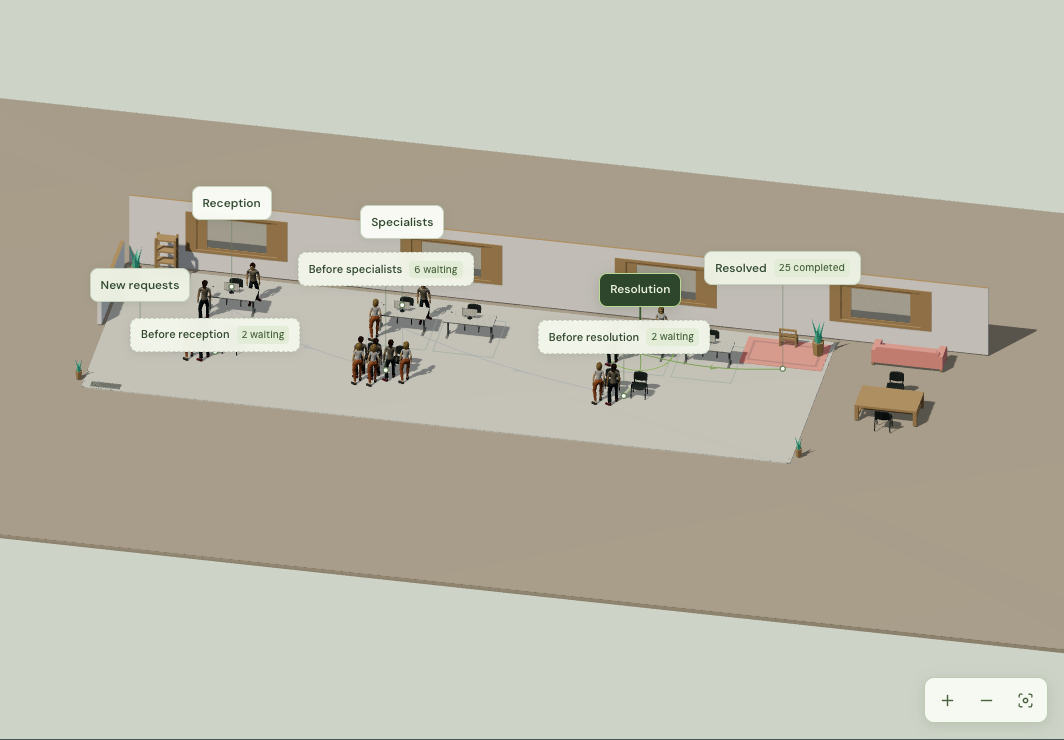
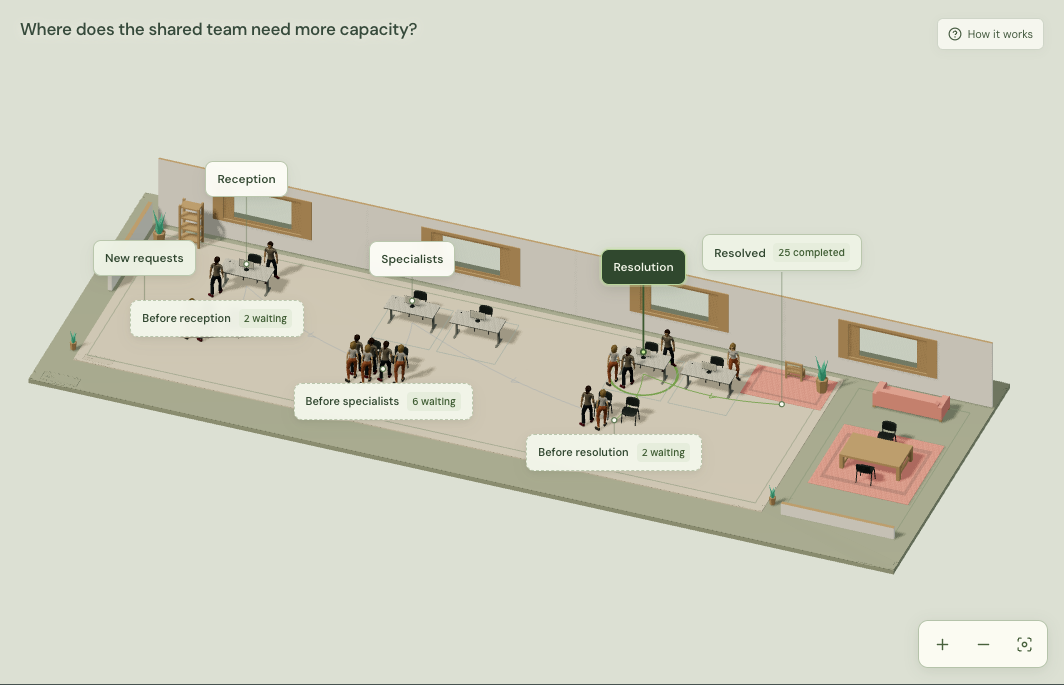
Refresh Loopset release artwork, guides and the demonstrated capacity trade-off

diff --git a/src/features/EditFields.tsx b/src/features/EditFields.tsx
@@ -38,6 +38,7 @@ export function NumberField({ label, value, onChange, contextKey, min, max, step
   const parsed = /^[+-]?(?:\d+(?:\.\d*)?|\.\d+)(?:[eE][+-]?\d+)?$/.test(draft.trim()) ? Number(draft) : NaN;
   const dirty = draft !== String(value);
   const compactReading = !dirty && format(value) !== draft;
+  const accessibleValue = dirty ? parsed : value;
   const validStep = step === 'any' || !Number.isFinite(parsed) || (step === 1 ? Number.isInteger(parsed) : Math.abs((parsed - (min ?? 0)) / step - Math.round((parsed - (min ?? 0)) / step)) < 1e-7);
   const valid = Number.isFinite(parsed) && (min === undefined || parsed >= min) && (max === undefined || parsed <= max) && validStep;
   usePendingEdit(contextKey, trackPending && dirty);
@@ -51,7 +52,7 @@ export function NumberField({ label, value, onChange, contextKey, min, max, step
   }
   return <div className={`ease-field${compact ? ' ease-field-compact' : ''}`}>
     <label htmlFor={id}>{label}</label>
-    <div className="ease-number-input"><input id={id} type="text" inputMode="decimal" role="spinbutton" aria-valuemin={min} aria-valuemax={max} aria-valuenow={dirty ? Number.isFinite(parsed) ? parsed : undefined : value} aria-invalid={Boolean(error)} data-reading={compactReading || undefined} data-pending={dirty || undefined} aria-describedby={help || error || dirty ? `${id}-help` : undefined} value={draft} disabled={disabled} onChange={event => { setDraft(event.currentTarget.value); setError(''); }} onBlur={commit} onKeyDown={event => {
+    <div className="ease-number-input"><input id={id} type="text" inputMode="decimal" role="spinbutton" aria-valuemin={min} aria-valuemax={max} aria-valuenow={Number.isFinite(accessibleValue) ? accessibleValue : undefined} aria-invalid={Boolean(error)} data-reading={compactReading || undefined} data-pending={dirty || undefined} aria-describedby={help || error || dirty ? `${id}-help` : undefined} value={draft} disabled={disabled} onChange={event => { setDraft(event.currentTarget.value); setError(''); }} onBlur={commit} onKeyDown={event => {
       if (event.key === 'Enter') { event.preventDefault(); commit(); }
       if (event.key === 'Escape') { event.preventDefault(); event.stopPropagation(); reset(); }
       if ((event.key === 'ArrowUp' || event.key === 'ArrowDown') && !event.altKey && !event.metaKey && !event.ctrlKey) {

diff --git a/vite.config.ts b/vite.config.ts
@@ -15,7 +15,7 @@ function socialMetadata(value: string | undefined): HtmlTagDescriptor[] {
   const title = `${BRAND.name} — ${BRAND.tagline}`;
   const description = 'A free process and capacity simulator. Build a little world, find its bottleneck and compare plans.';
   const image = new URL('social-card.png', url).href;
-  const alt = `${BRAND.name} with an actual miniature Factory scene and the words ${BRAND.tagline}`;
+  const alt = `${BRAND.name} with an actual miniature Factory scene and the words Build a little world. Try a better plan.`;
   const properties = {
     'og:type': 'website', 'og:site_name': BRAND.name, 'og:title': title,
     'og:description': description, 'og:url': url.href, 'og:image': image,

diff --git a/THIRD_PARTY_NOTICES.md b/THIRD_PARTY_NOTICES.md
@@ -1,12 +1,12 @@
 # Third-party notices
 
-Inventory checked against the installed packages and `package-lock.json` on 20 October 2026. Versions below describe this checkout; platform-specific optional packages differ on other operating systems. QueueLab's original code is MIT licensed under [LICENSE](LICENSE). Dependencies and the font retain their own licenses.
+Inventory checked against the installed packages and `package-lock.json` on 20 October 2026. Versions below describe this checkout; platform-specific optional packages differ on other operating systems. Loopset's original code is MIT licensed under [LICENSE](LICENSE). Dependencies and the font retain their own licenses.
 
 ## Product assets and browser runtime
 
-The current miniature worlds use the sourced model adaptations listed below. Lines, selection rings and move guides are original editor annotations. No shapez GPL code or assets are copied into QueueLab. DM Sans is served locally from `public/fonts/DMSans.ttf`; its complete SIL Open Font License 1.1 is retained at [`public/fonts/OFL.txt`](public/fonts/OFL.txt). Font copyright: 2014 The DM Sans Project Authors, https://github.com/googlefonts/dm-fonts.
+The current miniature worlds use the sourced model adaptations listed below. Lines, selection rings and move guides are original editor annotations. No shapez GPL code or assets are copied into Loopset. DM Sans is served locally from `public/fonts/DMSans.ttf`; its complete SIL Open Font License 1.1 is retained at [`public/fonts/OFL.txt`](public/fonts/OFL.txt). Font copyright: 2014 The DM Sans Project Authors, https://github.com/googlefonts/dm-fonts.
 
-React, React DOM, scheduler and Three.js use the MIT license. Lucide uses ISC and retains MIT notices for icons derived from Feather. Their installed license texts are reproduced below. The headless engine bundle contains QueueLab code and no third-party runtime dependency.
+React, React DOM, scheduler and Three.js use the MIT license. Lucide uses ISC and retains MIT notices for icons derived from Feather. Their installed license texts are reproduced below. The headless engine bundle contains Loopset code and no third-party runtime dependency.
 
 ## Installed npm package inventory
 
@@ -73,7 +73,7 @@ React, React DOM, scheduler and Three.js use the MIT license. Lucide uses ISC an
 | `vitest` | 5.0.5 | MIT | Development | `LICENSE.md` |
 | `why-is-node-running` | 3.2.1 | MIT | Development | `LICENSE` |
 
-License files in the last column are relative to each installed package directory under `node_modules`. Vite and Rolldown include bundled third-party notices in their license files; Playwright and Playwright Core include `NOTICE` and `ThirdPartyNotices.txt`; TypeScript includes `NOTICE.txt`. Preserve those upstream notices when redistributing development tooling. Lightning CSS and its native binding are MPL-2.0; their installed package metadata points to https://github.com/parcel-bundler/lightningcss for source. They are build tools, not source copied into QueueLab's engine. This inventory records the inspected materials and does not certify every possible redistribution arrangement.
+License files in the last column are relative to each installed package directory under `node_modules`. Vite and Rolldown include bundled third-party notices in their license files; Playwright and Playwright Core include `NOTICE` and `ThirdPartyNotices.txt`; TypeScript includes `NOTICE.txt`. Preserve those upstream notices when redistributing development tooling. Lightning CSS and its native binding are MPL-2.0; their installed package metadata points to https://github.com/parcel-bundler/lightningcss for source. They are build tools, not source copied into Loopset's engine. This inventory records the inspected materials and does not certify every possible redistribution arrangement.
 
 Regenerate the inventory when dependencies or bundled assets change, and inspect the actual license texts rather than inferring permission from a package name.
 
@@ -280,7 +280,7 @@ OTHER DEALINGS IN THE FONT SOFTWARE.
 
 `public/assets/simready` contains adapted NVIDIA CC-BY-4.0 geometry/thumbnails from [nvidia/simready-assets](https://huggingface.co/datasets/nvidia/simready-assets): `furniture_workbench_standard_e01`, `conveyor_belt_a05`, `pallet_a01`, `environment_floor_a01`, `desk_a01`, `computer_monitor_office_a01`, `chair_office_amf_black_a01`, `box_corrugated_brown_b08`, `serviceTool_brake_lathe_a01`, `instrument_caliper_a01`, `computer_scanner_barcode_a01`, `structure_wall_straight_a01`, `storage_shelf_basic_a01` and `lamp_ceiling_1m_rectangle_a01`.
 
-Creator: NVIDIA. **CC-BY-4.0**, separately from QueueLab's MIT code. Full licence: `public/assets/simready/LICENSE-CC-BY-4.0.txt` (runtime `assets/simready/LICENSE-CC-BY-4.0.txt`). Pinned revision, individual licences, source/output SHA256 hashes, textures, LOD and codec modifications: `public/assets/simready/manifest.json`.
+Creator: NVIDIA. **CC-BY-4.0**, separately from Loopset's MIT code. Full licence: `public/assets/simready/LICENSE-CC-BY-4.0.txt` (runtime `assets/simready/LICENSE-CC-BY-4.0.txt`). Pinned revision, individual licences, source/output SHA256 hashes, textures, LOD and codec modifications: `public/assets/simready/manifest.json`.
 
 Adaptations: offline OpenUSD composition, static GLB, shared material batches, local PBR palette and metric presentation scale; lathe retains original UVs and three official512px albedo atlases. Meshopt compression/vertex quantization uses gltfpack without intentional mesh simplification; repeated cartons use source-derived vertex clustering. The secondary scenery shelf is a source-derived LOD targeting25% of triangles at a0.1% error bound. Source physics, MDL and high-resolution texture payloads are excluded. [Preparation and bounds](docs/NVIDIA_ASSETS.md).
 
